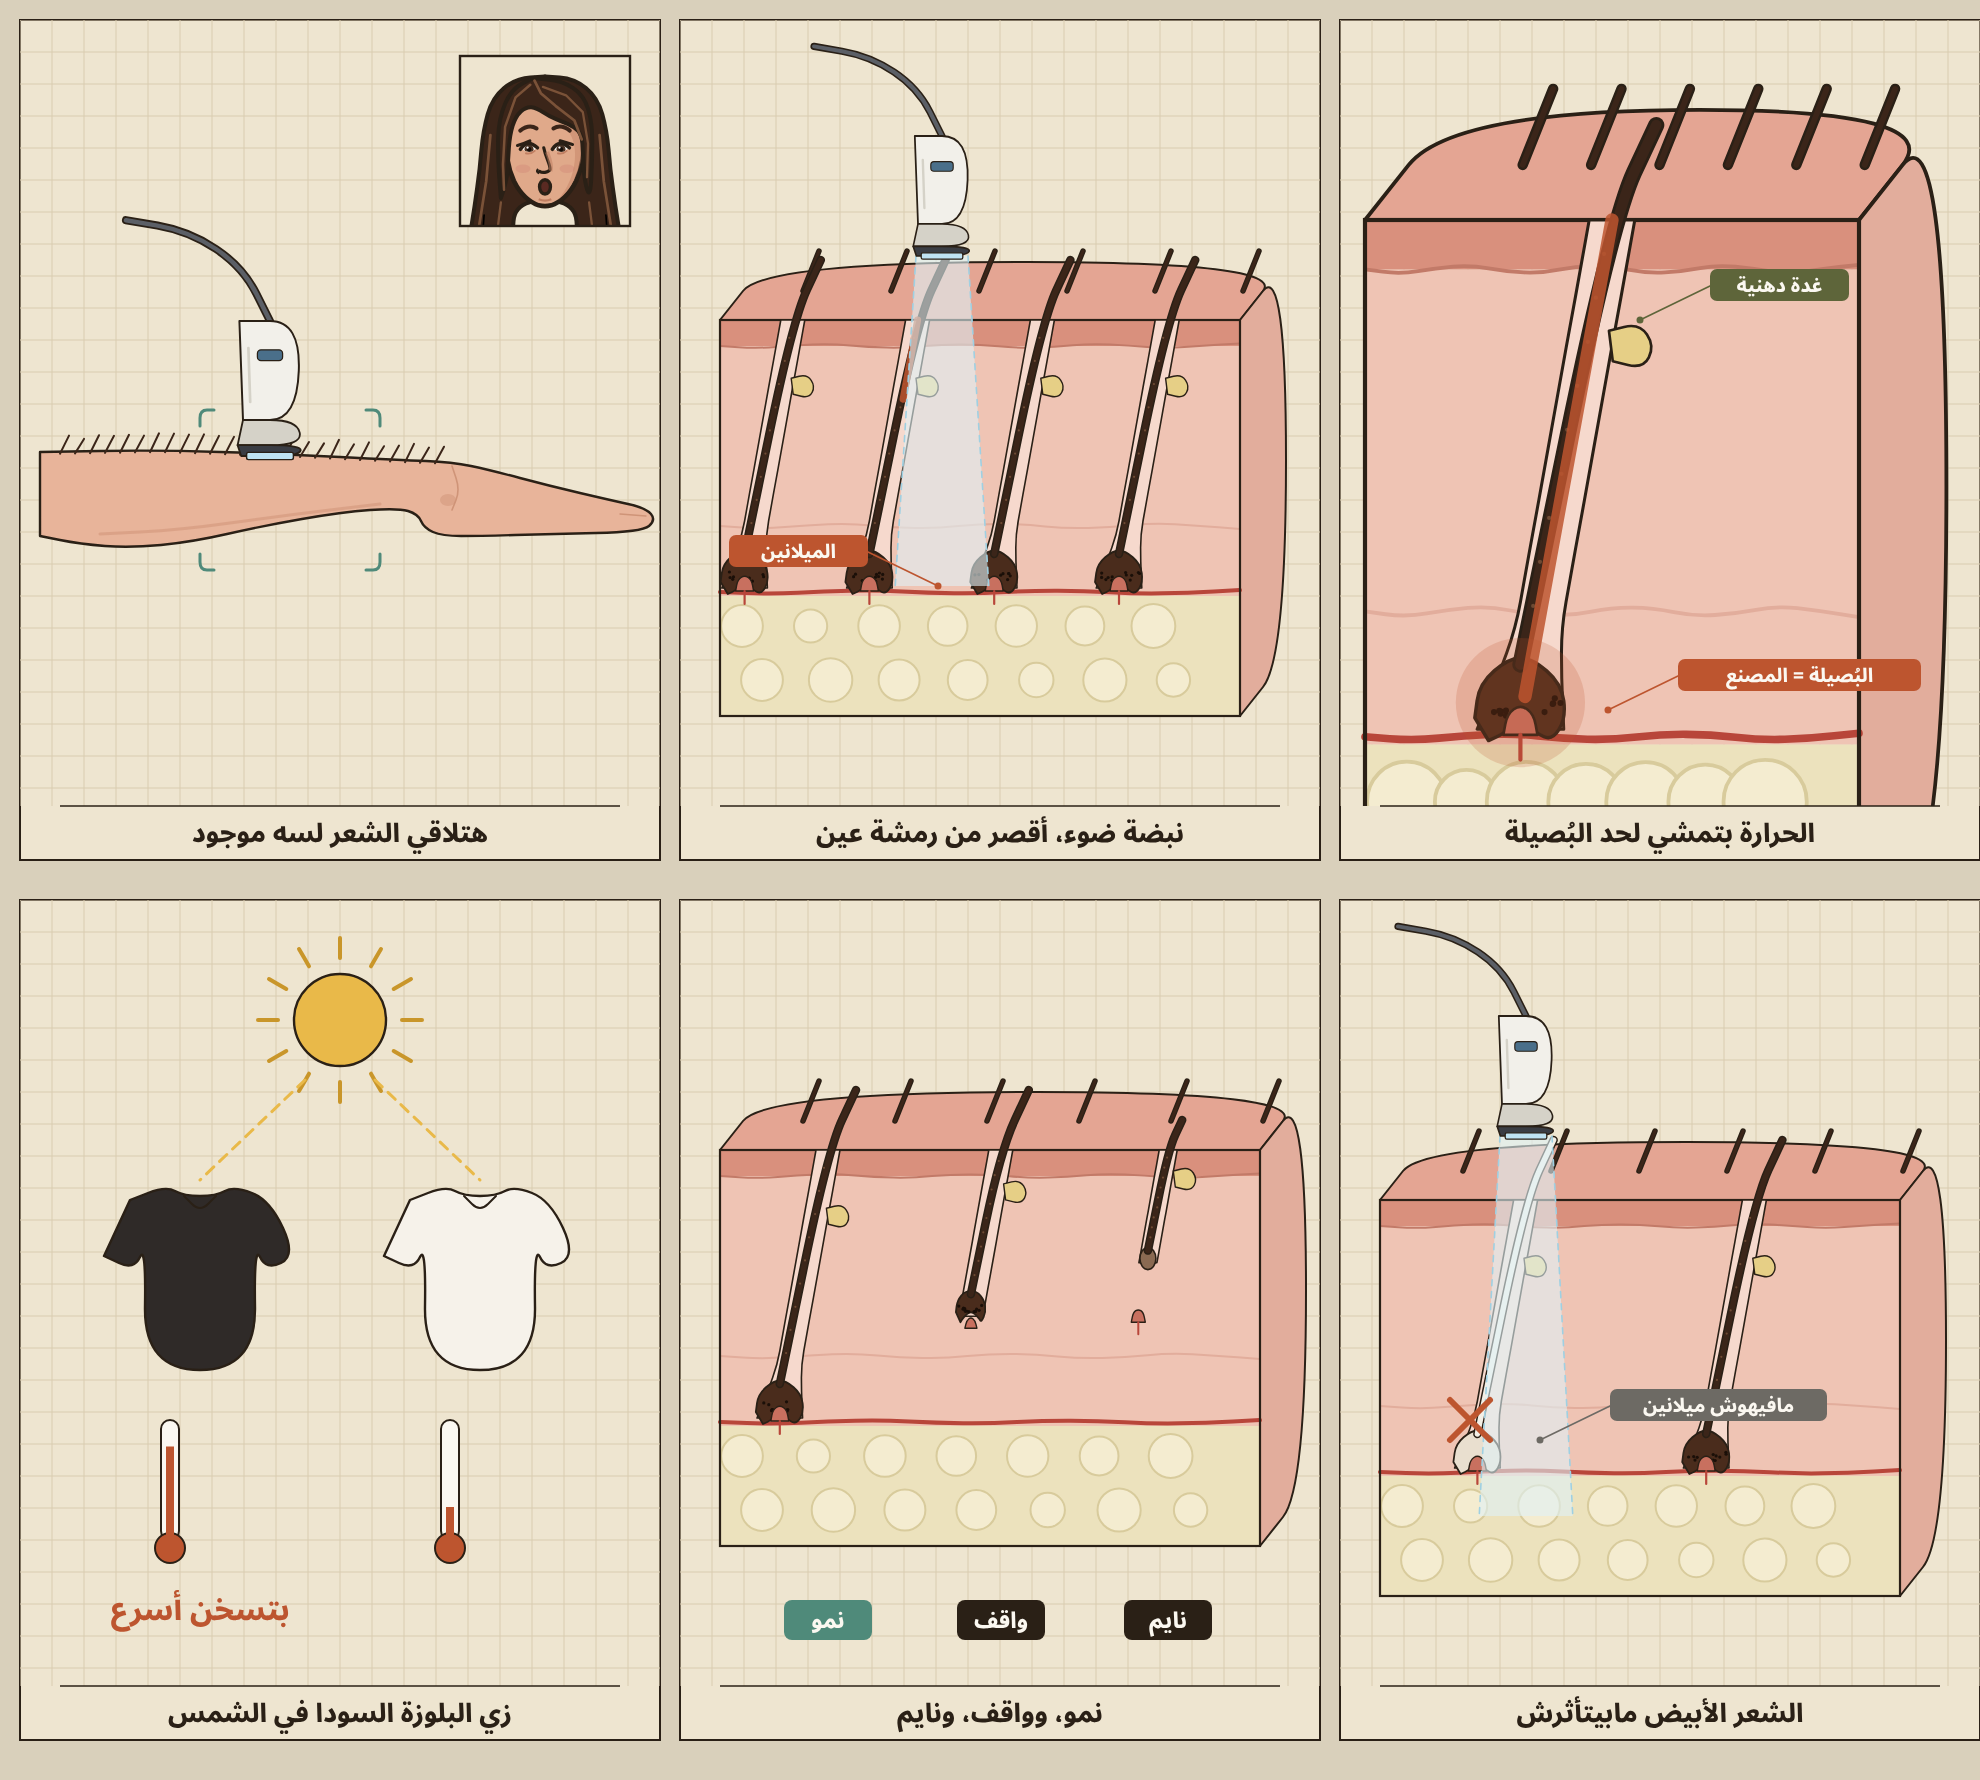
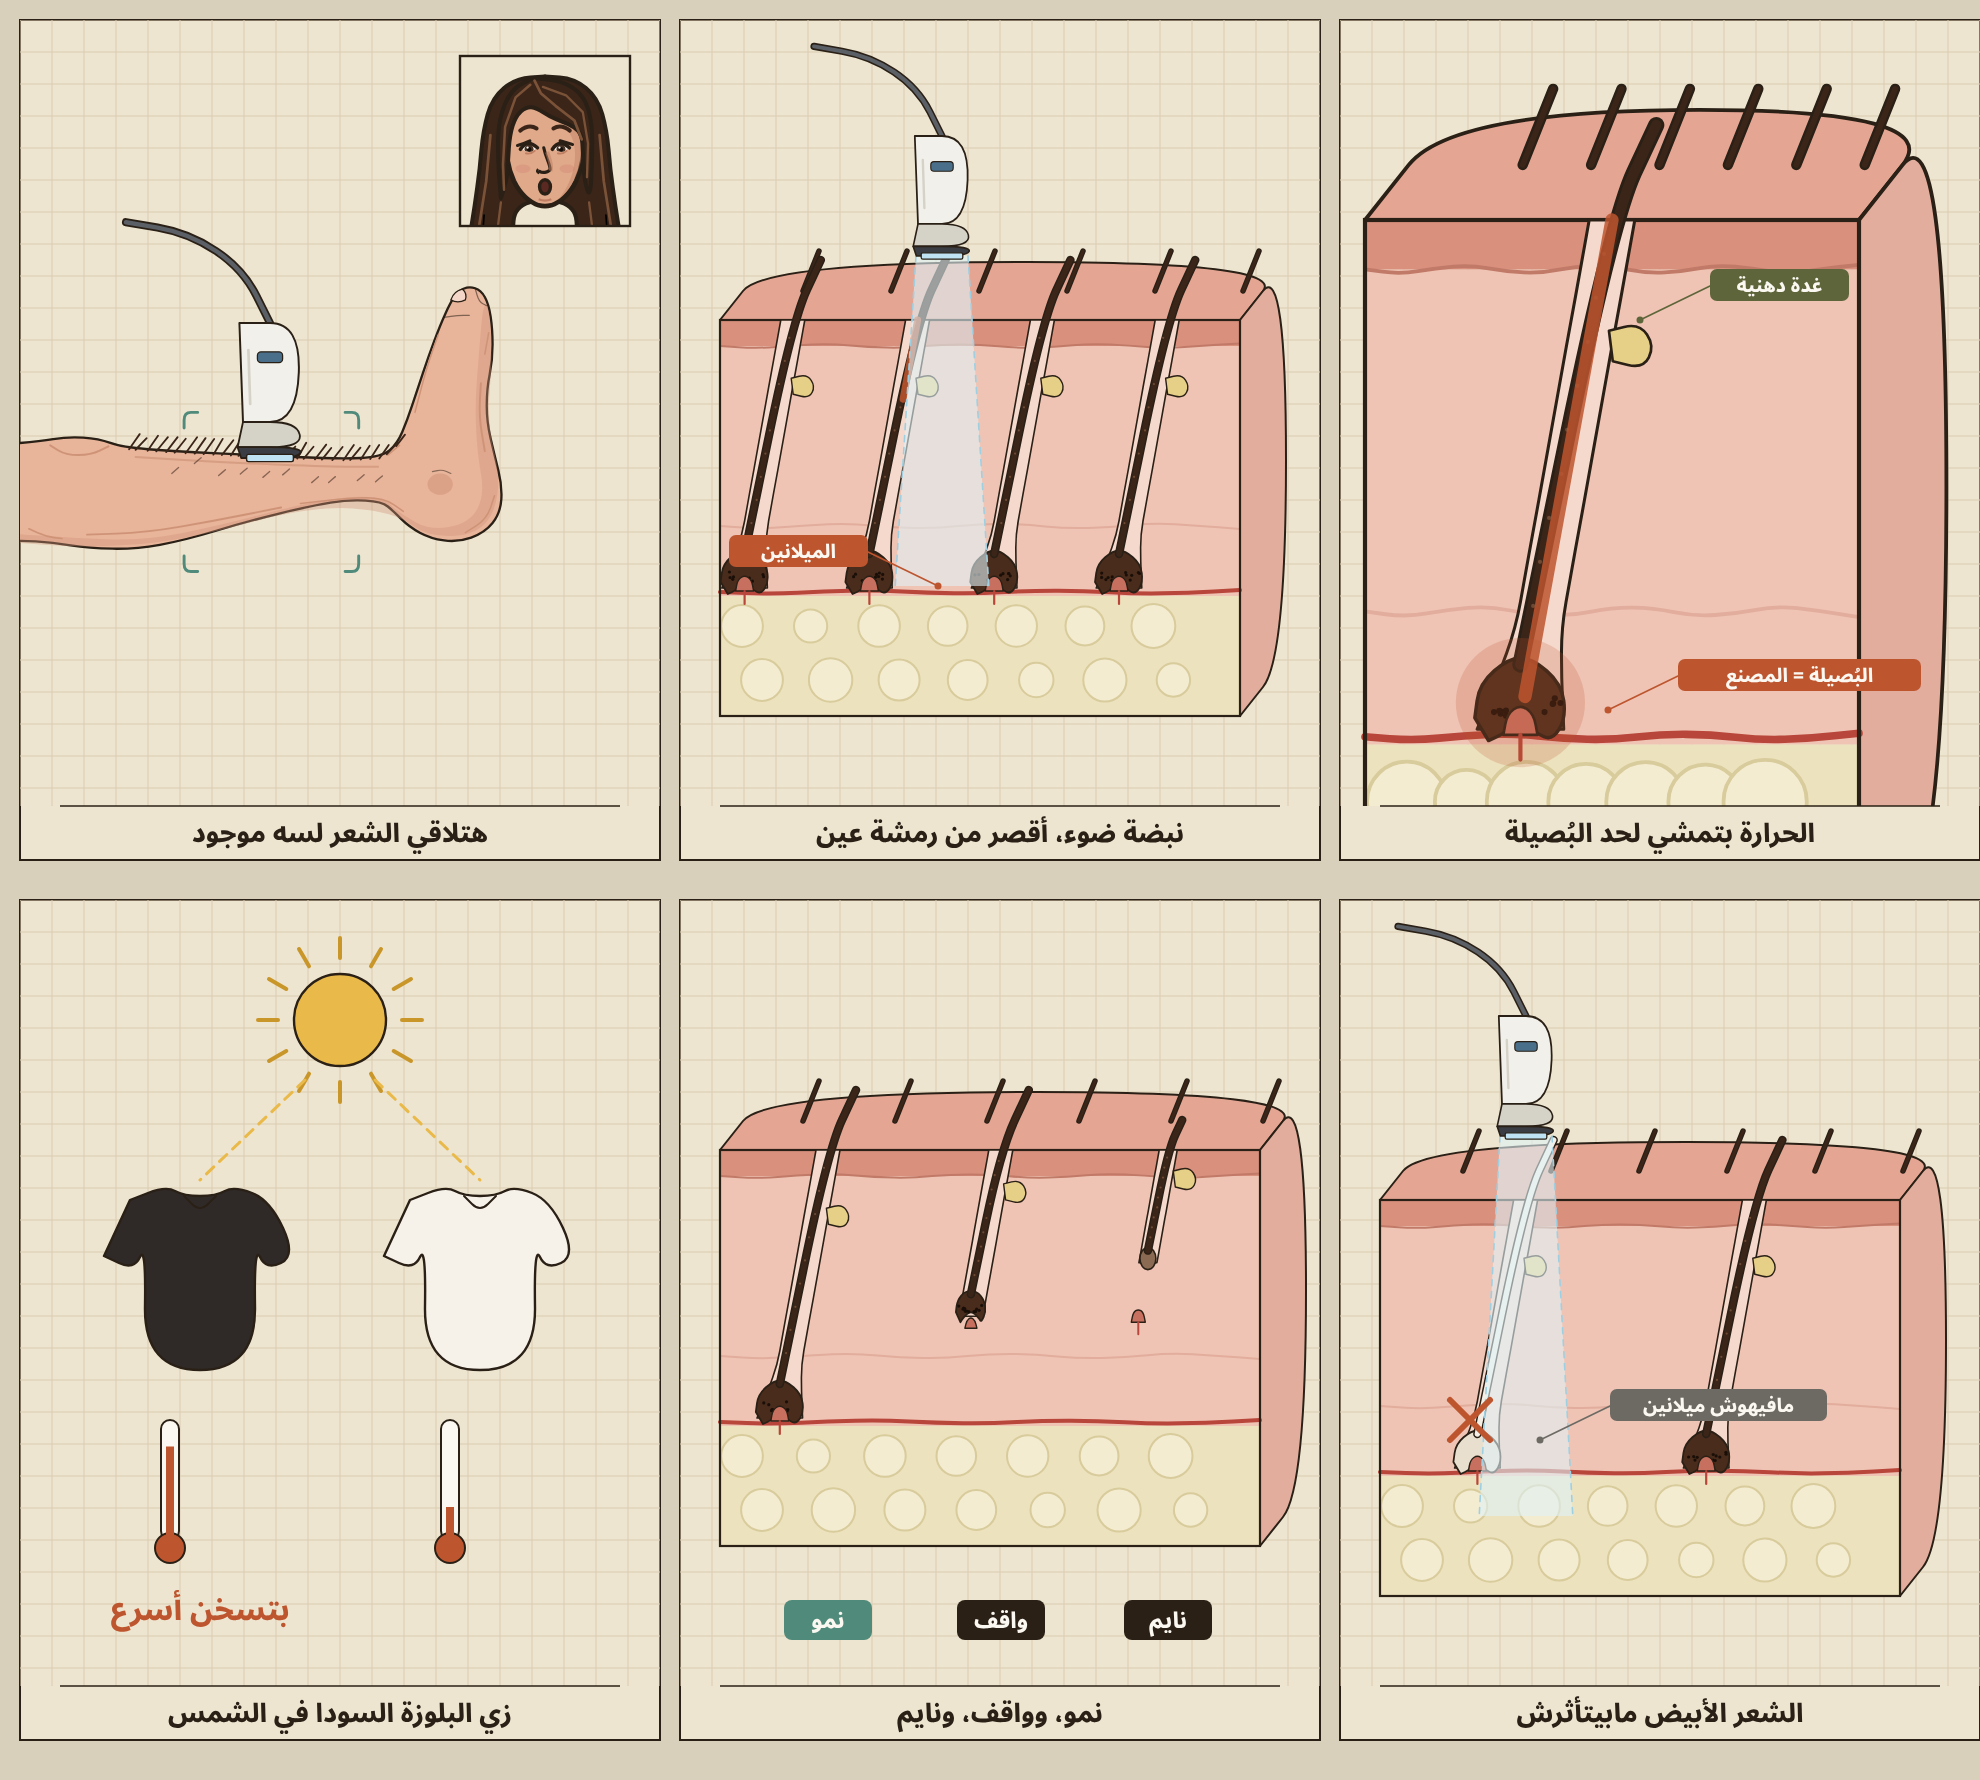
laser-hair: real leg anatomy (kneecap, shin, calf, Achilles, ankle, heel, arch, toes)
Claude-Session: https://claude.ai/code/session_016TN7FKE73HoqbYAQbW5n3B

Changed region(s): [[0.0, 0.1545, 0.3389, 0.309], [0.0616, 0.1236, 0.1232, 0.1545], [0.1232, 0.1545, 0.154, 0.1854]]

diff --git a/videos/laser-hair/sketch/draw.js b/videos/laser-hair/sketch/draw.js
@@ -101,16 +101,34 @@ function beam(x, y, L, k, col) {
   return '<path d="M' + f(x - w) + ' ' + f(y) + ' L' + f(x + w) + ' ' + f(y) + ' L' + f(x + w * 1.8) + ' ' + f(y + L * k) + ' L' + f(x - w * 1.8) + ' ' + f(y + L * k) + ' Z" fill="' + col + '" opacity=".6"/>' +
     line([[x - w, y], [x - w * 1.8, y + L * k]], "#9fd0e2", 1.6, ' stroke-dasharray="6 6"') + line([[x + w, y], [x + w * 1.8, y + L * k]], "#9fd0e2", 1.6, ' stroke-dasharray="6 6"');
 }
-// a bare lower leg in profile (knee at left, foot at right), skin hairs along the shin; bracket = treated patch [x1, x2]
+// a bare lower leg in profile, lying shin-up (knee at left, the foot standing up at the right, toes to the ceiling), after real leg anatomy: the kneecap's bump, the
+// straight shin (tibia), the calf muscle bulging below in its upper third, the Achilles tendon thinning to the heel, the
+// ankle bone, the instep, the arch under the foot and the toes with the big toenail. bracket = treated patch [x1, x2]
 function leg(x0, y0, s, o) {
   o = o || {}; var g = '<g transform="translate(' + f(x0) + ' ' + f(y0) + ') scale(' + s + ')">';
-  var out = [[-40, -38], [80, -40], [200, -36], [320, -30], [372, -28], [410, -20], [470, -4], [530, 10], [566, 18], [576, 30], [562, 42], [470, 44], [400, 46], [362, 46], [344, 38], [338, 24], [318, 18], [262, 22], [182, 36], [112, 52], [50, 58], [0, 54], [-40, 46]];   // shin on top, the calf bulging below, ankle, heel and foot
-  g += shape(out, SKIN, 2.4);
-  g += line([[20, 44], [100, 40], [200, 26], [300, 14]], SKIND, 3, ' opacity=".55"') + line([[372, -24], [380, 0], [372, 20]], SKIND, 1.6) + '<ellipse cx="368" cy="10" rx="8" ry="6" fill="' + SKIND + '" opacity=".5"/>' + line([[540, 24], [566, 26]], SKIND, 1.4);
-  for (var i = 0; i < 26; i++) { var hx = -20 + i * 15, hy = -40 + (hx > 330 ? 12 : hx / 330 * 14) * 0 + (hx < 300 ? -2 - hx * .045 + 0 : -26 + 26) ; hy = interpTop(hx); if (o.cleared && hx > o.cleared[0] && hx < o.cleared[1]) continue; g += line([[hx, hy + 2], [hx + 9, hy - 12 - rnd(i) * 5]], HAIR, 2); }
-  if (o.bracket) { var b = o.bracket; [[b[0], -1], [b[1], 1]].forEach(function (q) { g += line([[q[0] + q[1] * -14, -80], [q[0], -80], [q[0], -64]], "#4f8a7a", 3) + line([[q[0] + q[1] * -14, 80], [q[0], 80], [q[0], 64]], "#4f8a7a", 3); }); }
+  var top = [[-70, -46], [-20, -50], [10, -55], [42, -53], [66, -44], [120, -40], [200, -36], [290, -32], [334, -34], [350, -48], [360, -72], [370, -102], [382, -138], [394, -170], [404, -192], [412, -205], [424, -210]];
+  var bot = [[436, -206], [444, -192], [448, -166], [448, -134], [442, -104], [442, -70], [450, -36], [458, -4], [456, 24], [440, 44], [412, 54], [384, 50], [362, 38], [346, 22], [334, 12], [300, 10], [262, 16], [196, 32], [130, 52], [80, 61], [32, 60], [-6, 54], [-40, 52], [-70, 53]];
+  g += shape(top.concat(bot), SKIN, 2.4);
+  // shading: the underside of the calf, the heel and the sole side of the foot
+  g += '<path d="' + P([[-60, 44], [20, 50], [90, 52], [170, 36], [260, 12], [330, 4], [352, 24], [384, 42], [424, 34], [440, 6], [432, -40], [430, -90], [434, -140], [438, -190], [444, -192], [448, -134], [442, -70], [458, -4], [440, 44], [384, 50], [346, 22], [262, 16], [130, 52], [32, 60], [-60, 53]]) + ' Z" fill="' + SKIND + '" opacity=".38"/>';
+  // the kneecap and the crease behind the knee
+  g += line([[-8, -46], [8, -36], [34, -36], [52, -45]], SKIND, 2) + line([[-30, 40], [-12, 48], [4, 50]], SKIND, 1.8);
+  // the shin bone's edge, a long faint line just under the front
+  g += line([[80, -34], [180, -28], [280, -24], [330, -24]], SKIND, 2, ' opacity=".7"');
+  // the calf muscle's bulge and the Achilles tendon narrowing to the heel
+  g += line([[30, 46], [90, 44], [160, 32], [230, 18]], SKIND, 2) + line([[250, 14], [300, 8], [336, 8], [356, 22]], SKIND, 1.6);
+  // the ankle bone, the crease at the front of the ankle, the tendon down the instep
+  g += '<ellipse cx="394" cy="-6" rx="13" ry="11" fill="' + SKIND + '" opacity=".55"/>' + line([[386, -19], [396, -21], [405, -17]], INK, 1.2, ' opacity=".5"') + line([[340, -36], [352, -46]], SKIND, 1.6) + line([[368, -80], [380, -126], [392, -160]], SKIND, 1.5);
+  // the heel's round, the arch hollow on the sole, the ball of the foot
+  g += line([[420, 44], [442, 30], [450, 6]], SKIND, 1.6) + line([[440, -40], [434, -76], [436, -110]], SKIND, 2) + line([[440, -140], [444, -162]], SKIND, 1.6);
+  // the toes at the top: the big toe in front with its nail, the toe creases
+  g += '<path d="M405 -196 q 3 -9 12 -11 q 5 4 3 11 q -8 4 -15 0 z" fill="#f4d7c9" stroke="' + INK + '" stroke-width="1.3"/>' + line([[398, -178], [412, -180], [424, -180]], INK, 1.2, ' opacity=".55"') + line([[430, -208], [434, -194], [442, -190]], INK, 1.2, ' opacity=".55"') + line([[438, -203], [442, -194]], INK, 1, ' opacity=".5"');
+  // the hairs: along the shin, slanting toward the foot, thinning out at the knee and the ankle
+  var ti = function (x) { for (var k = 1; k < top.length; k++) if (top[k][0] >= x) { var a = top[k - 1], b2 = top[k], t = (x - a[0]) / (b2[0] - a[0]); return a[1] + (b2[1] - a[1]) * t; } return -30; };
+  for (var i = 0; i < 30; i++) { var hx = 70 + i * 9.6 + rnd(i) * 4, hy = ti(hx); if (o.cleared && hx > o.cleared[0] && hx < o.cleared[1]) continue; g += line([[hx, hy + 1.5], [hx + 9 + rnd(i + 3) * 3, hy - 10 - rnd(i) * 5]], HAIR, 1.9); }
+  for (var m = 0; m < 10; m++) { var lx = 110 + m * 24 + rnd(m + 7) * 8, ly = ti(lx) + 10 + rnd(m) * 16; g += line([[lx, ly], [lx + 7, ly - 6]], HAIR, 1.4, ' opacity=".55"'); }   // hairs on the side of the leg
+  if (o.bracket) { var b = o.bracket; [[b[0], -1], [b[1], 1]].forEach(function (q) { g += line([[q[0] + q[1] * -14, -80], [q[0], -80], [q[0], -64]], "#4f8a7a", 3) + line([[q[0] + q[1] * -14, 84], [q[0], 84], [q[0], 68]], "#4f8a7a", 3); }); }
   return g + '</g>';
-  function interpTop(x) { for (var k = 1; k < out.length; k++) if (out[k][0] >= x) { var a = out[k - 1], b2 = out[k], t = (x - a[0]) / (b2[0] - a[0]); return a[1] + (b2[1] - a[1]) * t; } return -30; }
 }
 return { follicle: follicle, skinBlock: skinBlock, handpiece: handpiece, beam: beam, leg: leg, tag: tag, line: line, shape: shape,
   C: { INK: INK, ORANGE: ORANGE, BLUE: BLUE, OLIVE: OLIVE, PAPER: PAPER, SKIN: SKIN, HAIR: HAIR } };

diff --git a/videos/laser-hair/sketch/review.html b/videos/laser-hair/sketch/review.html
@@ -13,7 +13,7 @@ function panel(i, cap, inner) {
     '<text x="320" y="822" text-anchor="middle" style="font:800 26px \'Noto Sans Arabic\';fill:#2a2016">' + cap + '</text></g>';
 }
 // 1 hook: the leg, the handpiece on the shin, the treated patch bracketed; hairs still there
-panel(0, "هتلاقي الشعر لسه موجود", Z.leg(60, 470, 1, { bracket: [120, 300] }) + Z.handpiece(250, 436, .9, 1) +
+panel(0, "هتلاقي الشعر لسه موجود", Z.leg(38, 470, .97, { bracket: [130, 310] }) + Z.handpiece(250, 438, .9, 1) +
   '<g transform="translate(440 36)"><clipPath id="ins"><rect width="170" height="170"/></clipPath><rect width="170" height="170" fill="#eee5d0"/><g clip-path="url(#ins)">' + PERSON.head([85, 96], 2.1, 0, { face: { mouth: "o", eyes: 1.25, brows: "raised", look: [0, .6] }, _of: { hair: "long", fem: true } }, Object.assign({}, PERSON.colors, { hair: "#3b2519", hairL: "#7a5238", lip: "#b8545c" })) + '</g><rect width="170" height="170" fill="none" stroke="#2a2016" stroke-width="2.4"/></g>');
 // 2 the pulse into the skin, the melanin takes it
 var b2 = Z.skinBlock(40, 300, 520, [{ x: .14 }, { x: .38, k: .3 }, { x: .62 }, { x: .86 }]);
